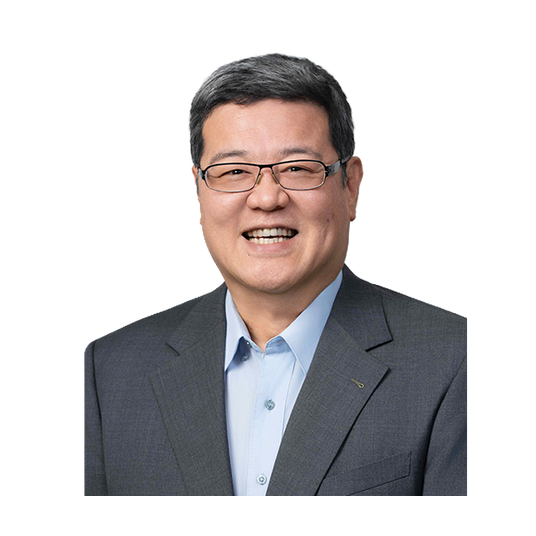
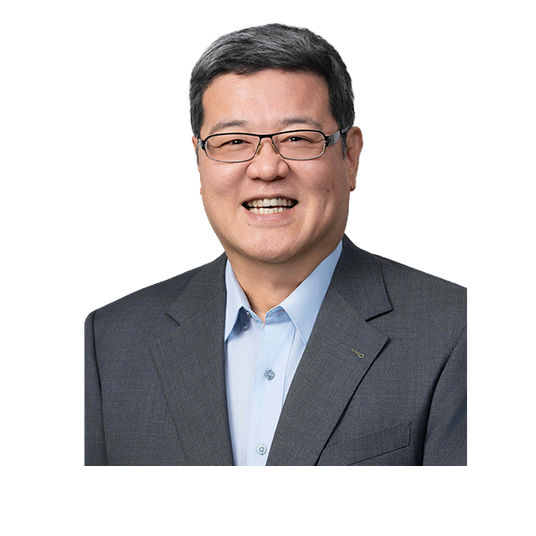
Show complete speaker portraits without cropping

Changed region(s): [[0.1493, 0.0299, 0.8955, 0.9254]]

diff --git a/css/layout.css b/css/layout.css
@@ -2887,7 +2887,7 @@ input[type="checkbox"] {
 .speaker_dot.is-active { width: 26px; height: 8px; border-radius: 8px; background: #49d8ff; }
 .speaker_dot:focus-visible { outline: 2px solid #fff; outline-offset: 3px; }
 .speaker_card { position: relative; height: 450px; flex: 0 0 calc((100% - 60px) / 4); min-width: 0; overflow: hidden; scroll-snap-align: start; clip-path: polygon(0 0, calc(100% - 22px) 0, 100% 22px, 100% 100%, 22px 100%, 0 calc(100% - 22px)); outline: 2px solid transparent; outline-offset: 3px; background: linear-gradient(180deg, #183c68, #07152d); }
-.speaker_card img { display: block; width: 100%; height: 100%; object-fit: cover; object-position: center top; cursor: pointer; }
+.speaker_card img { display: block; width: 100%; height: auto; aspect-ratio: 1 / 1; object-fit: contain; object-position: center top; cursor: pointer; }
 .speaker_card--gao img { object-position: center top; }
 .speaker_card:after { content: ""; position: absolute; inset: 0; background: linear-gradient(transparent 32%, rgba(2,12,30,.96) 75%); pointer-events: none; }
 .speaker_copy { position: absolute; right: 0; bottom: 0; left: 0; z-index: 1; height: 146px; padding: 10px 16px 14px; box-sizing: border-box; color: #fff; background: rgba(7, 21, 45, .68); cursor: pointer; }
